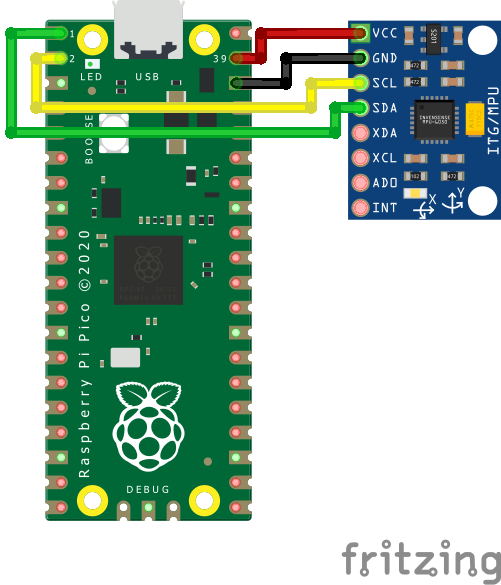
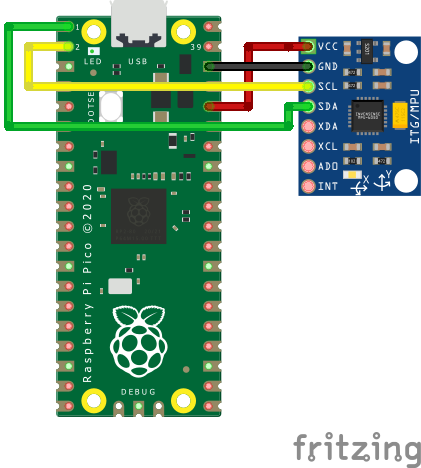
docs: Correct errors in Measuring Resonance

diff --git a/docs/Measuring_Resonances.md b/docs/Measuring_Resonances.md
@@ -65,8 +65,6 @@ GND+SCL
 
 ##### MPU-9250/MPU-9255/MPU-6515/MPU-6050/MPU-6500
 
-**MPU-9250 and MPU-9255 are obsolete parts! MPU-6500 are newer replacements at a lower failure rate.**
-
 Alternatives to the ADXL345 are MPU-9250/MPU-9255/MPU-6515/MPU-6050/MPU-6500.
 These accelerometers have been tested to work over I2C on the RPi or RP2040(pico)
 at 400kbaud.
@@ -75,7 +73,7 @@ Recommended connection scheme for I2C on the Raspberry Pi:
 
 | MPU-9250 pin | RPi pin | RPi pin name |
 |:--:|:--:|:--:|
-| 3V3 (or VCC) | 01 | 3.3v DC power |
+| VCC | 01 | 3.3v DC power |
 | GND | 09 | Ground |
 | SDA | 03 | GPIO02 (SDA1) |
 | SCL | 05 | GPIO03 (SCL1) |
@@ -86,7 +84,7 @@ Recommended connection scheme for I2C(i2c0a) on the RP2040:
 
 | MPU-9250 pin | RP2040 pin | RPi pin name |
 |:--:|:--:|:--:|
-| 3V3 (or VCC) | 39 | VSYS |
+| VCC | 39 | 3v3 |
 | GND | 38 | Ground |
 | SDA | 01 | GP0 (I2C0 SDA) |
 | SCL | 02 | GP1 (I2C0 SCL) |
@@ -138,10 +136,10 @@ Afterwards, check and follow the instructions in the
 [RPi Microcontroller document](RPi_microcontroller.md) to setup the
 "linux mcu" on the Raspberry Pi.
 
+#### Configure ADXL345 With RPi
+
 Make sure the Linux SPI driver is enabled by running `sudo
 raspi-config` and enabling SPI under the "Interfacing options" menu.
-
-#### Configure ADXL345 With RPi
 
 Add the following to the printer.cfg file:
 
